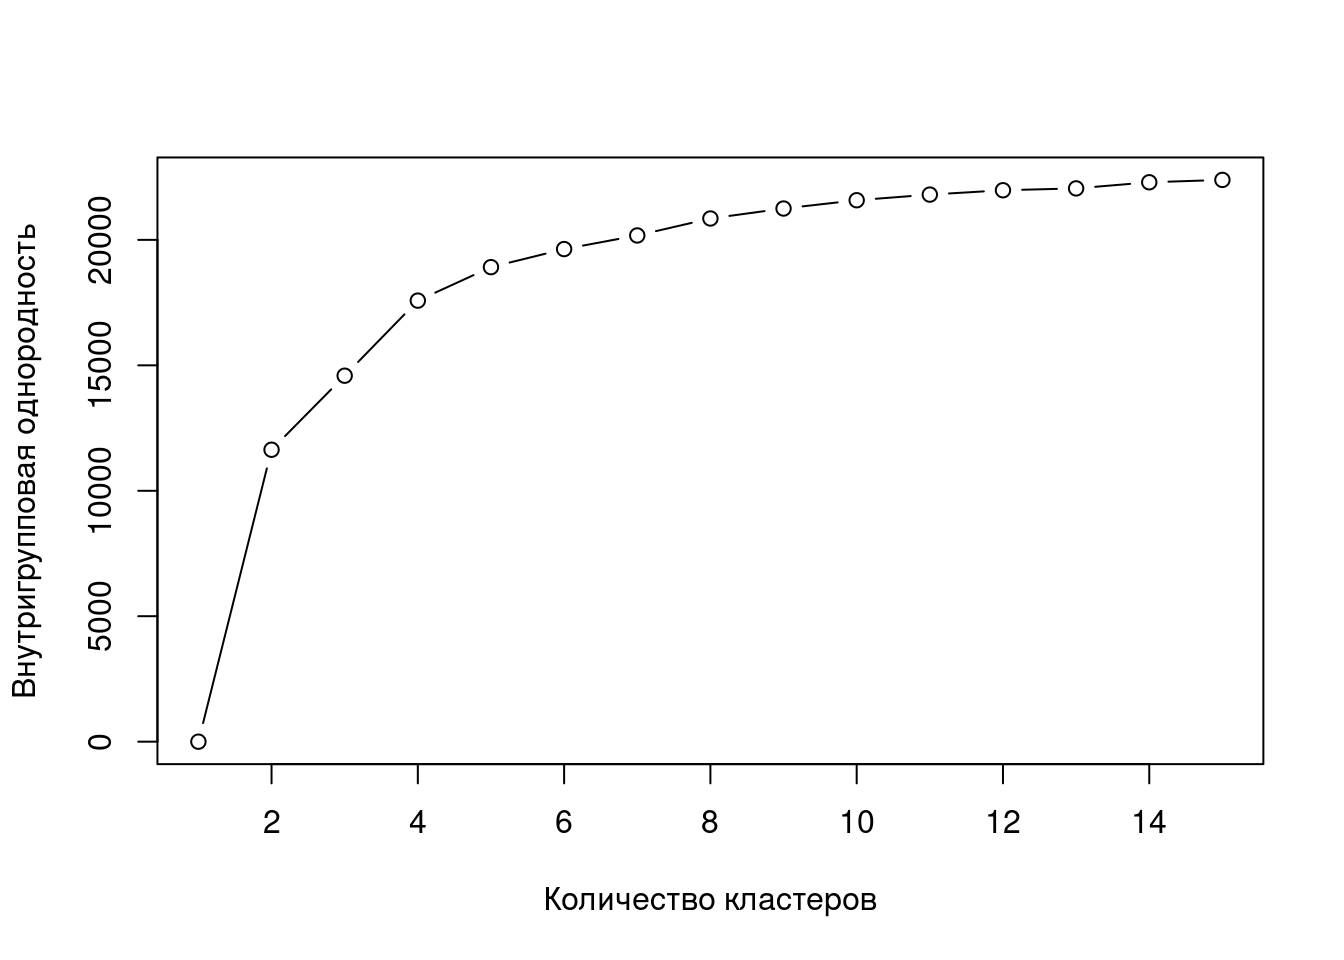
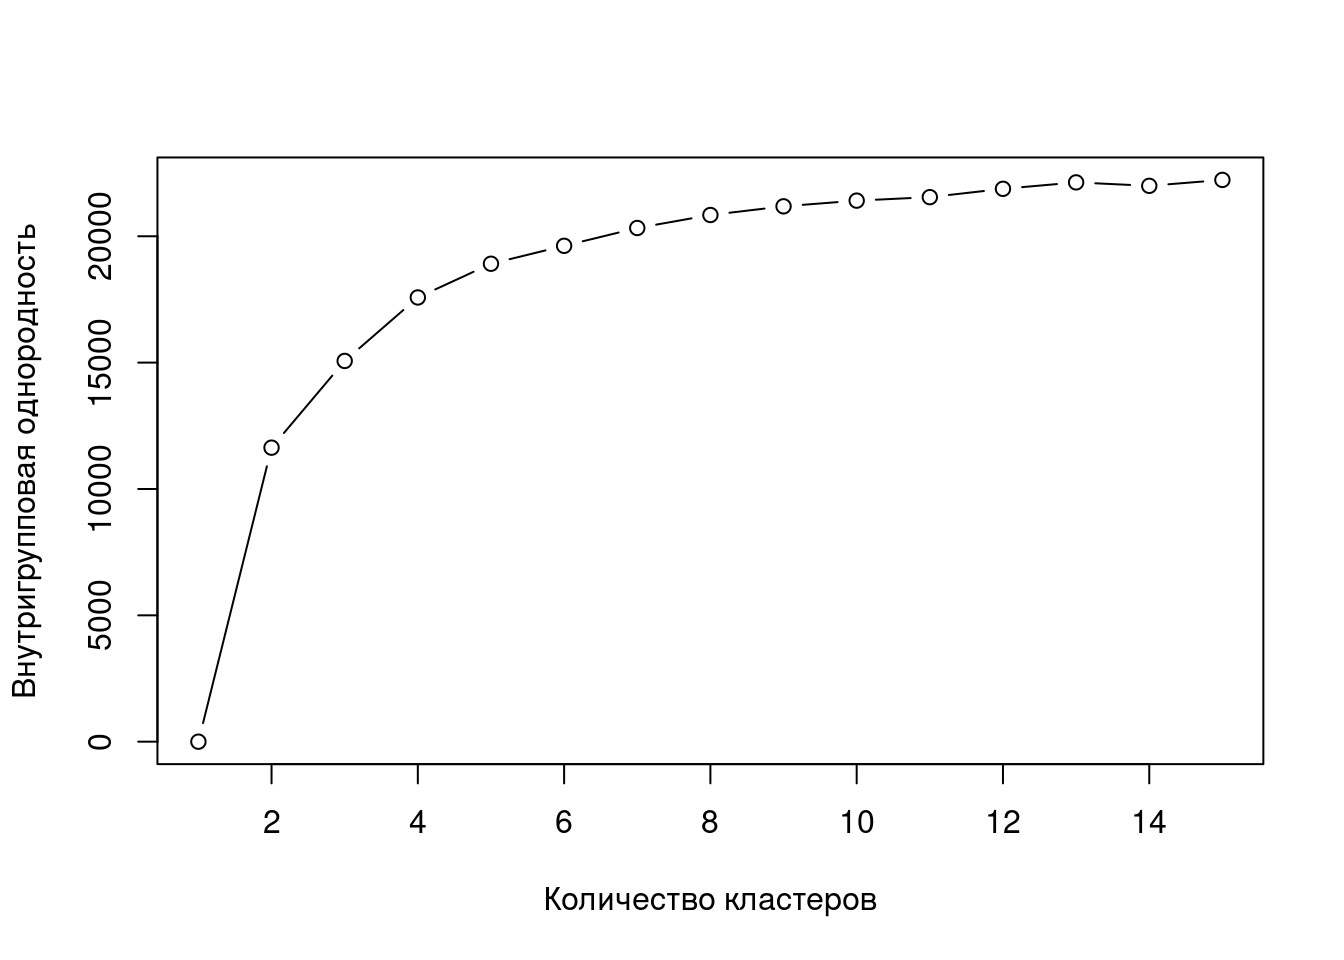
Minor fixes. V 0.0.2

diff --git a/content/post/2020-05-31-retrowave.ru.html b/content/post/2020-05-31-retrowave.ru.html
@@ -131,9 +131,9 @@ btwns &lt;- sapply(1:k_max, function(k) {
 })
 
 btwns</code></pre>
-<pre><code>##  [1] -3.961759e-09  1.163524e+04  1.458596e+04  1.757879e+04  1.891287e+04
-##  [6]  1.963252e+04  2.017534e+04  2.085152e+04  2.124868e+04  2.157896e+04
-## [11]  2.180353e+04  2.197700e+04  2.205066e+04  2.229482e+04  2.238897e+04</code></pre>
+<pre><code>##  [1] -3.961759e-09  1.163524e+04  1.506682e+04  1.757879e+04  1.891287e+04
+##  [6]  1.962234e+04  2.032777e+04  2.084172e+04  2.118541e+04  2.141058e+04
+## [11]  2.154855e+04  2.187801e+04  2.213257e+04  2.199594e+04  2.223039e+04</code></pre>
 <pre class="r"><code>plot(1:k_max, btwns,
      type=&quot;b&quot;,
      xlab=&quot;Количество кластеров&quot;,
@@ -185,67 +185,67 @@ knitr::kable(head(dist))</code></pre>
 <thead>
 <tr class="header">
 <th align="left">col</th>
-<th align="right">#E18857</th>
-<th align="right">#4F2144</th>
-<th align="right">#5A3C7B</th>
-<th align="right">#D990CE</th>
-<th align="right">#9266AE</th>
-<th align="right">#AF376F</th>
+<th align="right">#DAA3D1</th>
+<th align="right">#4D2349</th>
+<th align="right">#604286</th>
+<th align="right">#AA366B</th>
+<th align="right">#AF63B4</th>
+<th align="right">#E18757</th>
 </tr>
 </thead>
 <tbody>
 <tr class="odd">
-<td align="left">#E18857</td>
+<td align="left">#DAA3D1</td>
 <td align="right">0.0000000</td>
-<td align="right">0.7034413</td>
-<td align="right">0.6247367</td>
-<td align="right">0.4689488</td>
-<td align="right">0.4778558</td>
-<td align="right">0.3842379</td>
+<td align="right">0.9191228</td>
+<td align="right">0.6782761</td>
+<td align="right">0.6165632</td>
+<td align="right">0.3248299</td>
+<td align="right">0.4948480</td>
 </tr>
 <tr class="even">
-<td align="left">#4F2144</td>
-<td align="right">0.7034413</td>
+<td align="left">#4D2349</td>
+<td align="right">0.9191228</td>
 <td align="right">0.0000000</td>
-<td align="right">0.2417207</td>
-<td align="right">0.8797835</td>
-<td align="right">0.5595597</td>
-<td align="right">0.4220309</td>
+<td align="right">0.2790042</td>
+<td align="right">0.3957883</td>
+<td align="right">0.6225893</td>
+<td align="right">0.7010818</td>
 </tr>
 <tr class="odd">
-<td align="left">#5A3C7B</td>
-<td align="right">0.6247367</td>
-<td align="right">0.2417207</td>
+<td align="left">#604286</td>
+<td align="right">0.6782761</td>
+<td align="right">0.2790042</td>
 <td align="right">0.0000000</td>
-<td align="right">0.6821665</td>
-<td align="right">0.3410420</td>
-<td align="right">0.3392885</td>
+<td align="right">0.3114735</td>
+<td align="right">0.3803901</td>
+<td align="right">0.6002356</td>
 </tr>
 <tr class="even">
-<td align="left">#D990CE</td>
-<td align="right">0.4689488</td>
-<td align="right">0.8797835</td>
-<td align="right">0.6821665</td>
+<td align="left">#AA366B</td>
+<td align="right">0.6165632</td>
+<td align="right">0.3957883</td>
+<td align="right">0.3114735</td>
 <td align="right">0.0000000</td>
-<td align="right">0.3472341</td>
-<td align="right">0.5361049</td>
+<td align="right">0.3373404</td>
+<td align="right">0.3899041</td>
 </tr>
 <tr class="odd">
-<td align="left">#9266AE</td>
-<td align="right">0.4778558</td>
-<td align="right">0.5595597</td>
-<td align="right">0.3410420</td>
-<td align="right">0.3472341</td>
+<td align="left">#AF63B4</td>
+<td align="right">0.3248299</td>
+<td align="right">0.6225893</td>
+<td align="right">0.3803901</td>
+<td align="right">0.3373404</td>
 <td align="right">0.0000000</td>
-<td align="right">0.3276875</td>
+<td align="right">0.4389983</td>
 </tr>
 <tr class="even">
-<td align="left">#AF376F</td>
-<td align="right">0.3842379</td>
-<td align="right">0.4220309</td>
-<td align="right">0.3392885</td>
-<td align="right">0.5361049</td>
-<td align="right">0.3276875</td>
+<td align="left">#E18757</td>
+<td align="right">0.4948480</td>
+<td align="right">0.7010818</td>
+<td align="right">0.6002356</td>
+<td align="right">0.3899041</td>
+<td align="right">0.4389983</td>
 <td align="right">0.0000000</td>
 </tr>
 </tbody>

diff --git a/public/post/retrowave/index.html b/public/post/retrowave/index.html
@@ -190,9 +190,9 @@ btwns &lt;- sapply(1:k_max, function(k) {
 })
 
 btwns</code></pre>
-<pre><code>##  [1] -3.961759e-09  1.163524e+04  1.458596e+04  1.757879e+04  1.891287e+04
-##  [6]  1.963252e+04  2.017534e+04  2.085152e+04  2.124868e+04  2.157896e+04
-## [11]  2.180353e+04  2.197700e+04  2.205066e+04  2.229482e+04  2.238897e+04</code></pre>
+<pre><code>##  [1] -3.961759e-09  1.163524e+04  1.506682e+04  1.757879e+04  1.891287e+04
+##  [6]  1.962234e+04  2.032777e+04  2.084172e+04  2.118541e+04  2.141058e+04
+## [11]  2.154855e+04  2.187801e+04  2.213257e+04  2.199594e+04  2.223039e+04</code></pre>
 <pre class="r"><code>plot(1:k_max, btwns,
      type=&quot;b&quot;,
      xlab=&quot;Количество кластеров&quot;,
@@ -244,67 +244,67 @@ knitr::kable(head(dist))</code></pre>
 <thead>
 <tr class="header">
 <th align="left">col</th>
-<th align="right">#E18857</th>
-<th align="right">#4F2144</th>
-<th align="right">#5A3C7B</th>
-<th align="right">#D990CE</th>
-<th align="right">#9266AE</th>
-<th align="right">#AF376F</th>
+<th align="right">#DAA3D1</th>
+<th align="right">#4D2349</th>
+<th align="right">#604286</th>
+<th align="right">#AA366B</th>
+<th align="right">#AF63B4</th>
+<th align="right">#E18757</th>
 </tr>
 </thead>
 <tbody>
 <tr class="odd">
-<td align="left">#E18857</td>
+<td align="left">#DAA3D1</td>
 <td align="right">0.0000000</td>
-<td align="right">0.7034413</td>
-<td align="right">0.6247367</td>
-<td align="right">0.4689488</td>
-<td align="right">0.4778558</td>
-<td align="right">0.3842379</td>
+<td align="right">0.9191228</td>
+<td align="right">0.6782761</td>
+<td align="right">0.6165632</td>
+<td align="right">0.3248299</td>
+<td align="right">0.4948480</td>
 </tr>
 <tr class="even">
-<td align="left">#4F2144</td>
-<td align="right">0.7034413</td>
+<td align="left">#4D2349</td>
+<td align="right">0.9191228</td>
 <td align="right">0.0000000</td>
-<td align="right">0.2417207</td>
-<td align="right">0.8797835</td>
-<td align="right">0.5595597</td>
-<td align="right">0.4220309</td>
+<td align="right">0.2790042</td>
+<td align="right">0.3957883</td>
+<td align="right">0.6225893</td>
+<td align="right">0.7010818</td>
 </tr>
 <tr class="odd">
-<td align="left">#5A3C7B</td>
-<td align="right">0.6247367</td>
-<td align="right">0.2417207</td>
+<td align="left">#604286</td>
+<td align="right">0.6782761</td>
+<td align="right">0.2790042</td>
 <td align="right">0.0000000</td>
-<td align="right">0.6821665</td>
-<td align="right">0.3410420</td>
-<td align="right">0.3392885</td>
+<td align="right">0.3114735</td>
+<td align="right">0.3803901</td>
+<td align="right">0.6002356</td>
 </tr>
 <tr class="even">
-<td align="left">#D990CE</td>
-<td align="right">0.4689488</td>
-<td align="right">0.8797835</td>
-<td align="right">0.6821665</td>
+<td align="left">#AA366B</td>
+<td align="right">0.6165632</td>
+<td align="right">0.3957883</td>
+<td align="right">0.3114735</td>
 <td align="right">0.0000000</td>
-<td align="right">0.3472341</td>
-<td align="right">0.5361049</td>
+<td align="right">0.3373404</td>
+<td align="right">0.3899041</td>
 </tr>
 <tr class="odd">
-<td align="left">#9266AE</td>
-<td align="right">0.4778558</td>
-<td align="right">0.5595597</td>
-<td align="right">0.3410420</td>
-<td align="right">0.3472341</td>
+<td align="left">#AF63B4</td>
+<td align="right">0.3248299</td>
+<td align="right">0.6225893</td>
+<td align="right">0.3803901</td>
+<td align="right">0.3373404</td>
 <td align="right">0.0000000</td>
-<td align="right">0.3276875</td>
+<td align="right">0.4389983</td>
 </tr>
 <tr class="even">
-<td align="left">#AF376F</td>
-<td align="right">0.3842379</td>
-<td align="right">0.4220309</td>
-<td align="right">0.3392885</td>
-<td align="right">0.5361049</td>
-<td align="right">0.3276875</td>
+<td align="left">#E18757</td>
+<td align="right">0.4948480</td>
+<td align="right">0.7010818</td>
+<td align="right">0.6002356</td>
+<td align="right">0.3899041</td>
+<td align="right">0.4389983</td>
 <td align="right">0.0000000</td>
 </tr>
 </tbody>

diff --git a/public/gallery/index.html b/public/gallery/index.html
@@ -78,17 +78,12 @@
     
     
         <div>
-            <img src="/gallery/900-3_hu1c92bb71562faf09560e20ac3018f319_190608_800x0_resize_q75_box.jpg" alt="900-3.jpg" />
+            <img src="/gallery/900-4_hue0a4b521f04757bb988f8b7d57a5bf61_447455_800x0_resize_q75_box.jpg" alt="900-4.jpg" />
         </div>
     
     
         <div>
-            <img src="/gallery/900-5_hu223faad3e53c1beaffb68f39cabc9068_195555_800x0_resize_q75_box.jpg" alt="900-5.jpg" />
-        </div>
-    
-    
-        <div>
-            <img src="/gallery/900-6_hu2f71d947fccfff06ad329d64103fe2e4_201644_800x0_resize_q75_box.jpg" alt="900-6.jpg" />
+            <img src="/gallery/900-8_hu954089c55d67e1807a5a74fcfe45013c_387718_800x0_resize_q75_box.jpg" alt="900-8.jpg" />
         </div>
     
     
@@ -103,7 +98,7 @@
     
     
         <div>
-            <img src="/gallery/900-4_hue0a4b521f04757bb988f8b7d57a5bf61_447455_800x0_resize_q75_box.jpg" alt="900-4.jpg" />
+            <img src="/gallery/900-5_hu223faad3e53c1beaffb68f39cabc9068_195555_800x0_resize_q75_box.jpg" alt="900-5.jpg" />
         </div>
     
     
@@ -113,12 +108,17 @@
     
     
         <div>
-            <img src="/gallery/900-2_hub02b8b0dfe97fb3ff84a9d585d02b975_125262_800x0_resize_q75_box.jpg" alt="900-2.jpg" />
+            <img src="/gallery/900-3_hu1c92bb71562faf09560e20ac3018f319_190608_800x0_resize_q75_box.jpg" alt="900-3.jpg" />
         </div>
     
     
         <div>
-            <img src="/gallery/900-8_hu954089c55d67e1807a5a74fcfe45013c_387718_800x0_resize_q75_box.jpg" alt="900-8.jpg" />
+            <img src="/gallery/900-6_hu2f71d947fccfff06ad329d64103fe2e4_201644_800x0_resize_q75_box.jpg" alt="900-6.jpg" />
+        </div>
+    
+    
+        <div>
+            <img src="/gallery/900-2_hub02b8b0dfe97fb3ff84a9d585d02b975_125262_800x0_resize_q75_box.jpg" alt="900-2.jpg" />
         </div>
     
 

diff --git a/public/portfolio/index.html b/public/portfolio/index.html
@@ -84,15 +84,15 @@
         
     
         <div>
-            <a href="/portfolio/andrew-neel-308138-unsplash.jpg">
-                <img src="/portfolio/andrew-neel-308138-unsplash_hu3d03a01dcc18bc5be0e67db3d8d209a6_4229800_600x0_resize_q75_box.jpg" alt="andrew-neel-308138-unsplash.jpg" />     
+            <a href="/portfolio/headway-551543-unsplash.jpg">
+                <img src="/portfolio/headway-551543-unsplash_hu3d03a01dcc18bc5be0e67db3d8d209a6_4456286_600x0_resize_q75_box.jpg" alt="headway-551543-unsplash.jpg" />     
             </a>
         </div>
         
     
         <div>
-            <a href="/portfolio/headway-551543-unsplash.jpg">
-                <img src="/portfolio/headway-551543-unsplash_hu3d03a01dcc18bc5be0e67db3d8d209a6_4456286_600x0_resize_q75_box.jpg" alt="headway-551543-unsplash.jpg" />     
+            <a href="/portfolio/andrew-neel-308138-unsplash.jpg">
+                <img src="/portfolio/andrew-neel-308138-unsplash_hu3d03a01dcc18bc5be0e67db3d8d209a6_4229800_600x0_resize_q75_box.jpg" alt="andrew-neel-308138-unsplash.jpg" />     
             </a>
         </div>
         
